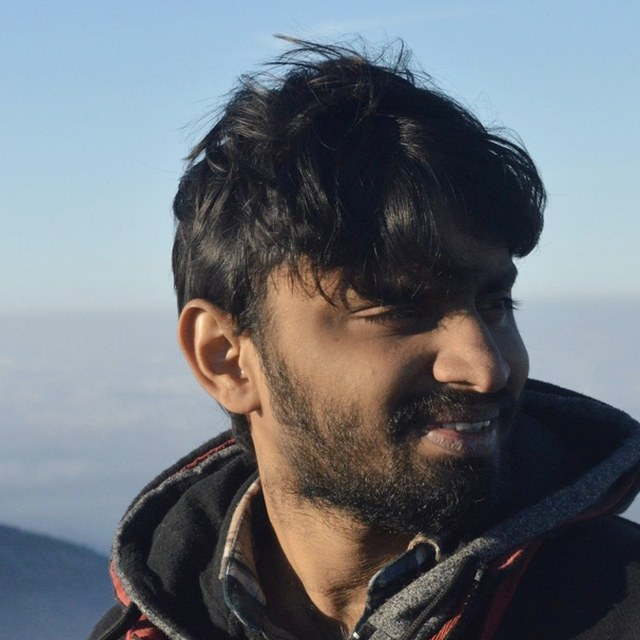
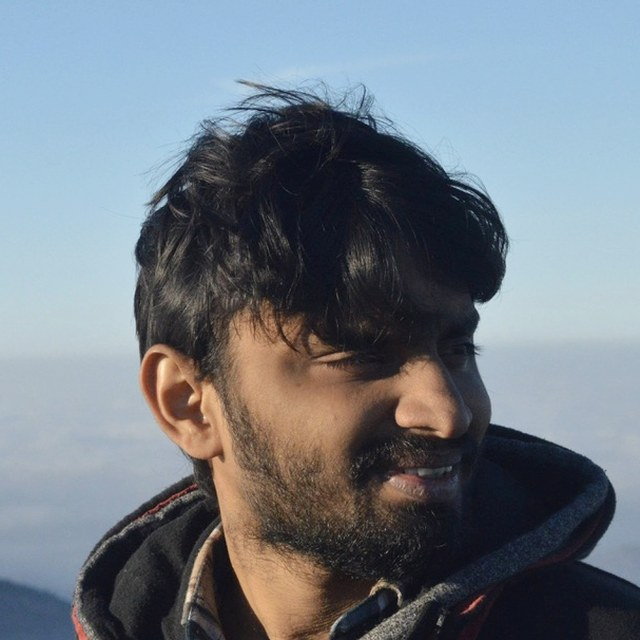
Centre the head in both profile photos
Re-cropped from the originals so the head (hair to chin) sits in the middle of
the circle at the same size as before: day photo (356,263)-(896,803) of the
1200x1600 original, dark photo (210,64)-(817,670) of the 886px original with
the same shadow lift. Image versions bumped to v=5 and v=3.

Claude-Session: https://claude.ai/code/session_01DUHUvsk4d72F8rTo4YmRrU

diff --git a/index.html b/index.html
@@ -39,8 +39,8 @@
     <aside class="sidebar">
       <div class="profile">
         <div class="profile-photo">
-          <img src="profile.jpg?v=4" alt="Pratheek B" class="photo-day" width="160" height="160" />
-          <img src="profile-dark.jpg?v=2" alt="" class="photo-dark" width="160" height="160" />
+          <img src="profile.jpg?v=5" alt="Pratheek B" class="photo-day" width="160" height="160" />
+          <img src="profile-dark.jpg?v=3" alt="" class="photo-dark" width="160" height="160" />
         </div>
         <div class="nameblock">
           <h1>Pratheek B</h1>
